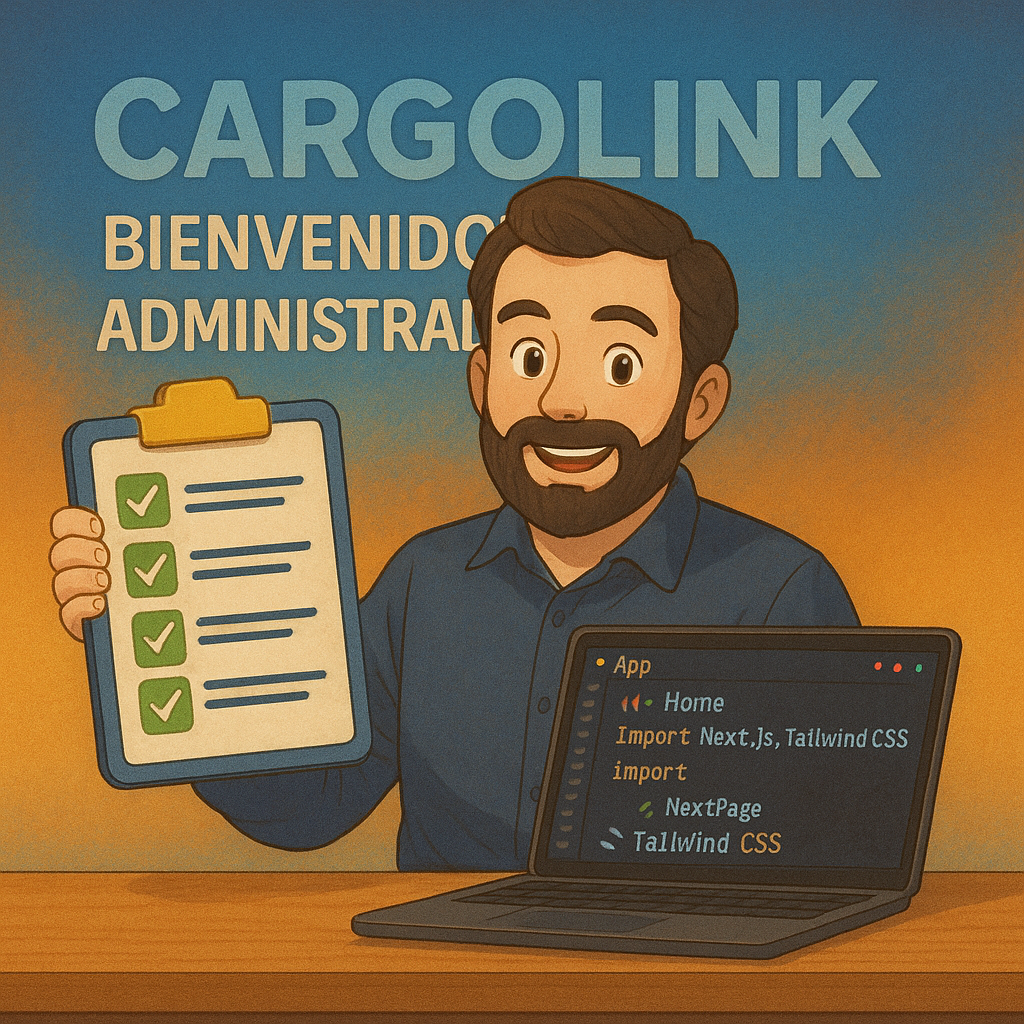
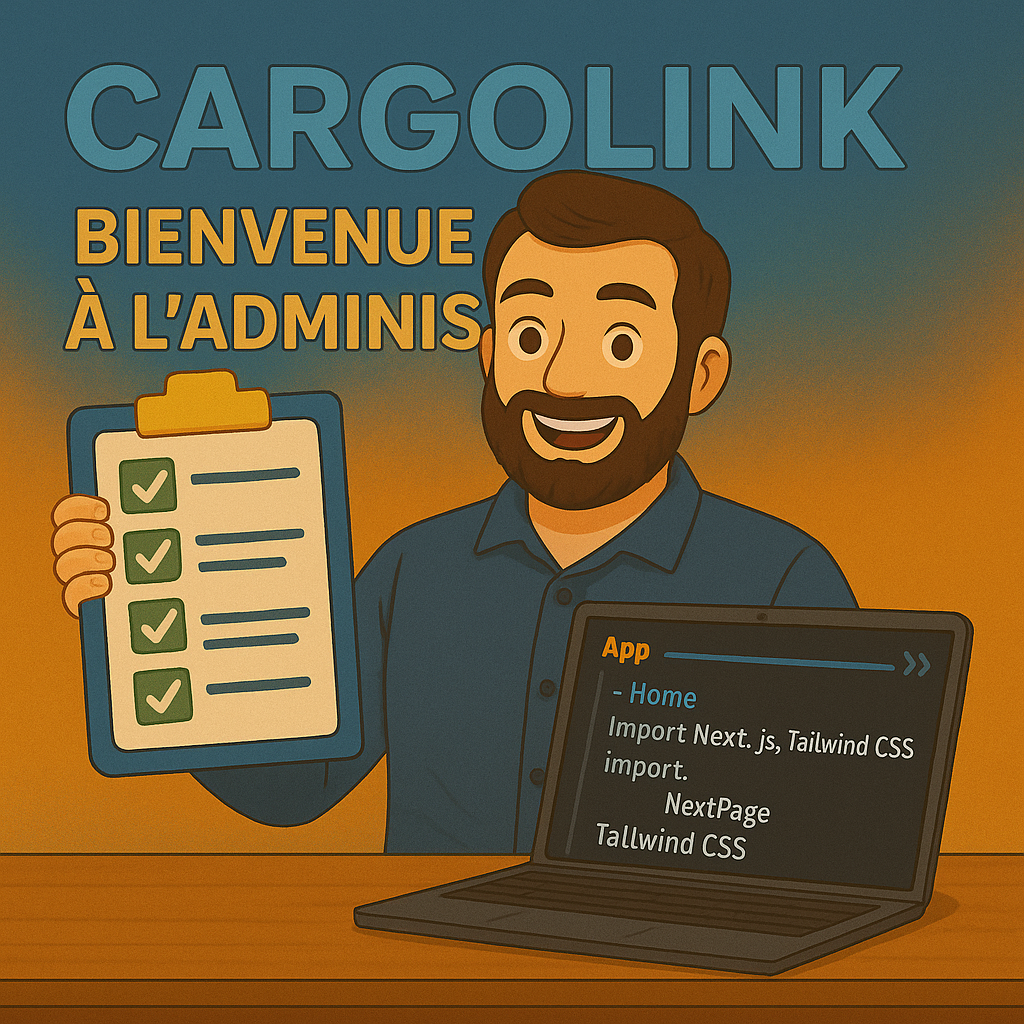
Agregaando las imagenes para la traduccion

diff --git a/modules/transporter/HomeTransporter.tsx b/modules/transporter/HomeTransporter.tsx
@@ -11,7 +11,7 @@ export default function HomeTransportador() {
       <div className="mb-8 w-full flex justify-center">
         <div className="w-full max-w-2xl">
           <Image
-            src="/images/colaboradores_English.png"
+            src="/images/colaboradores.png"
             alt="Transportador"
             width={800}
             height={400}
